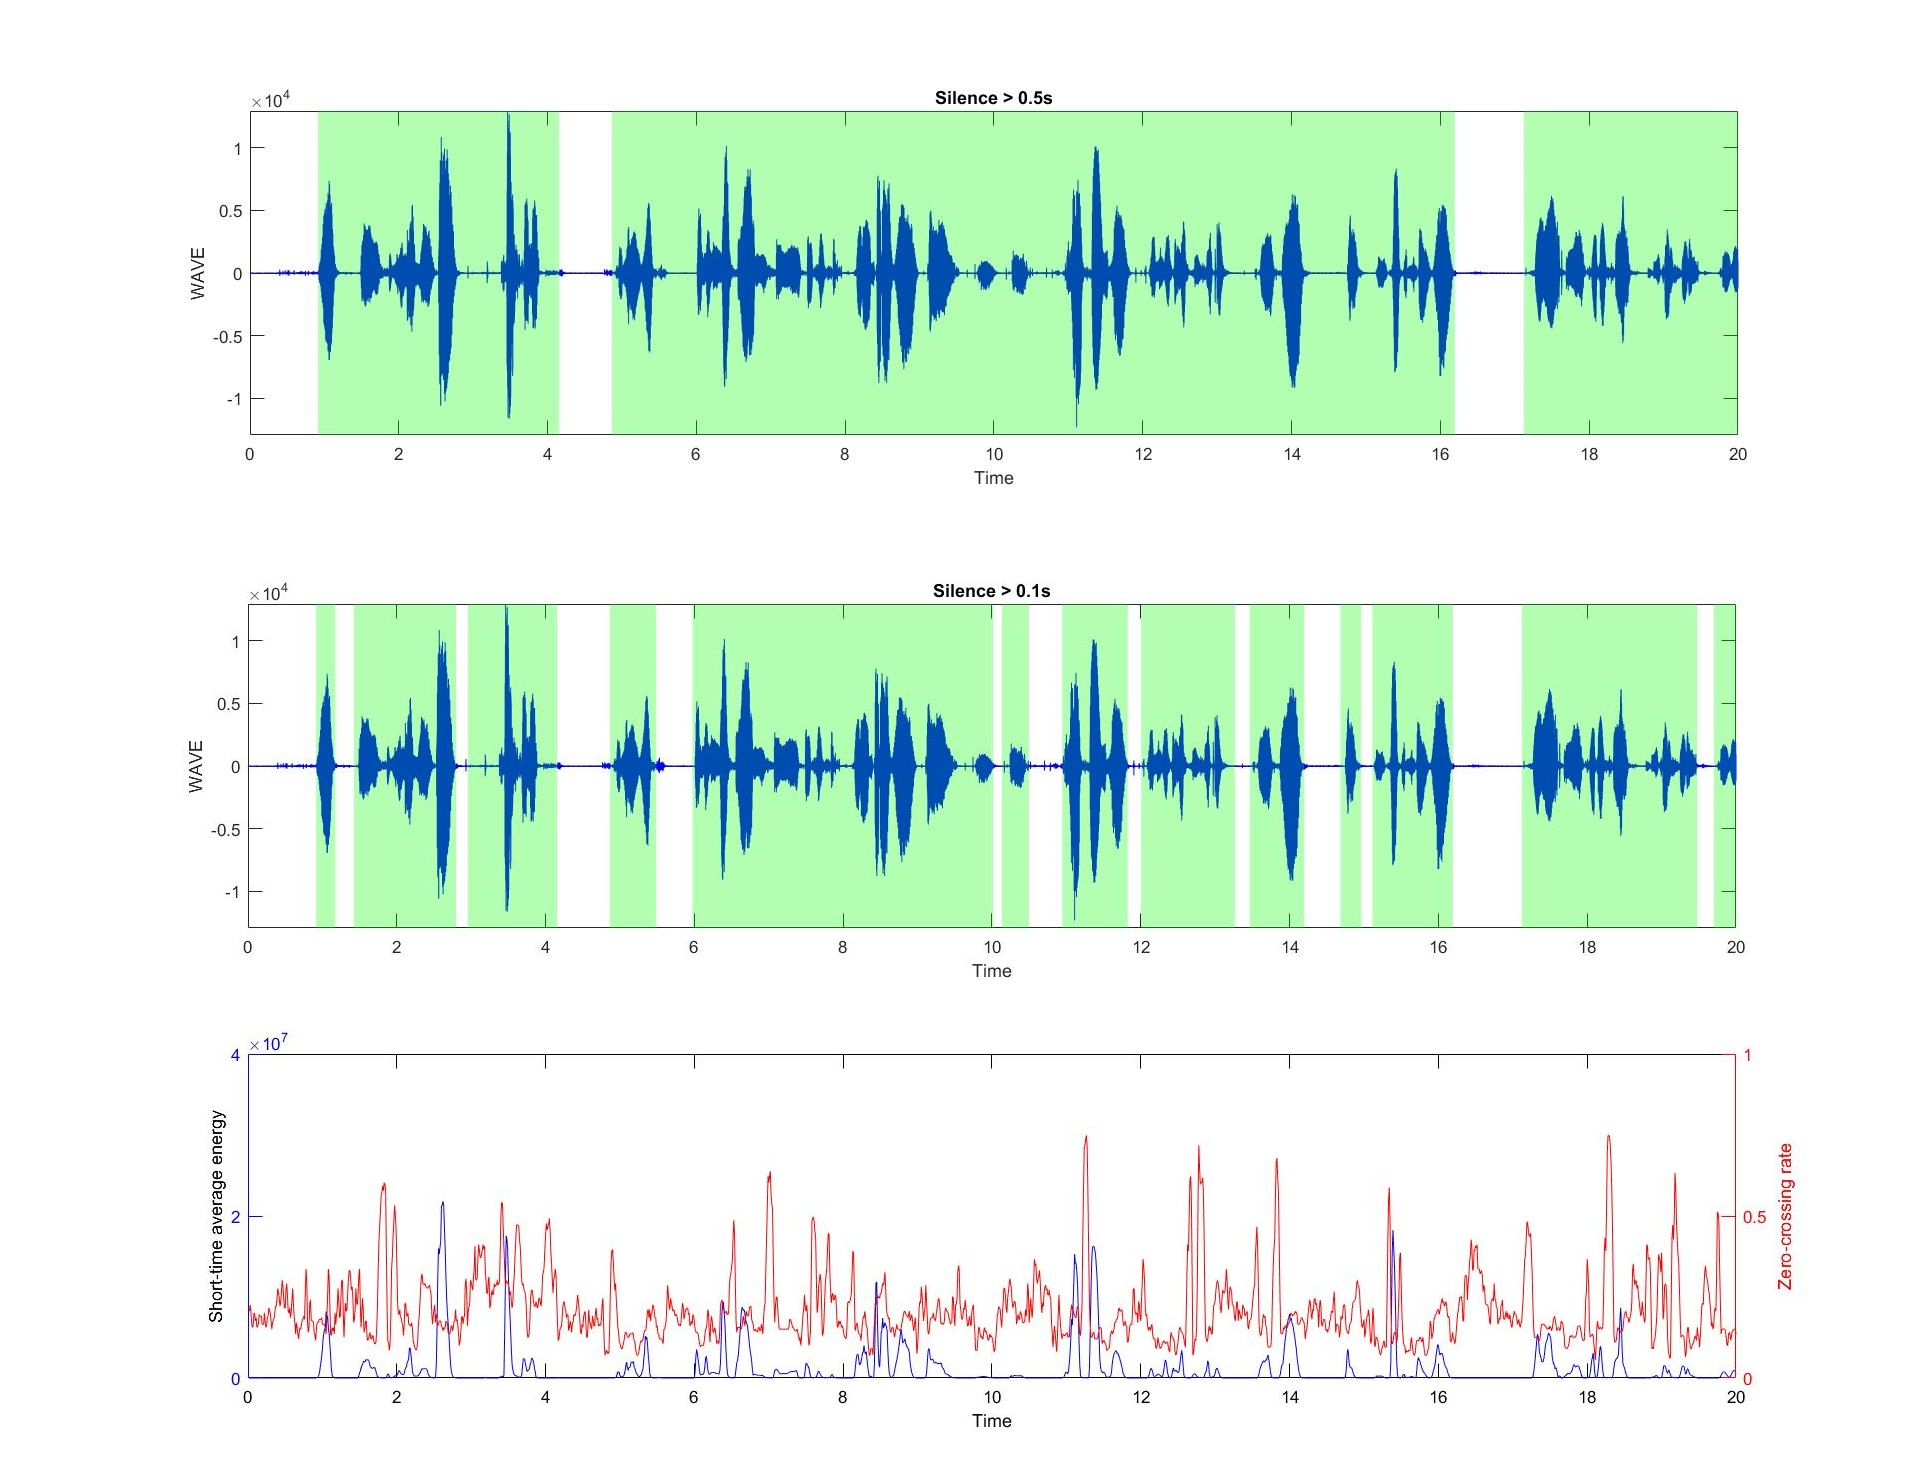
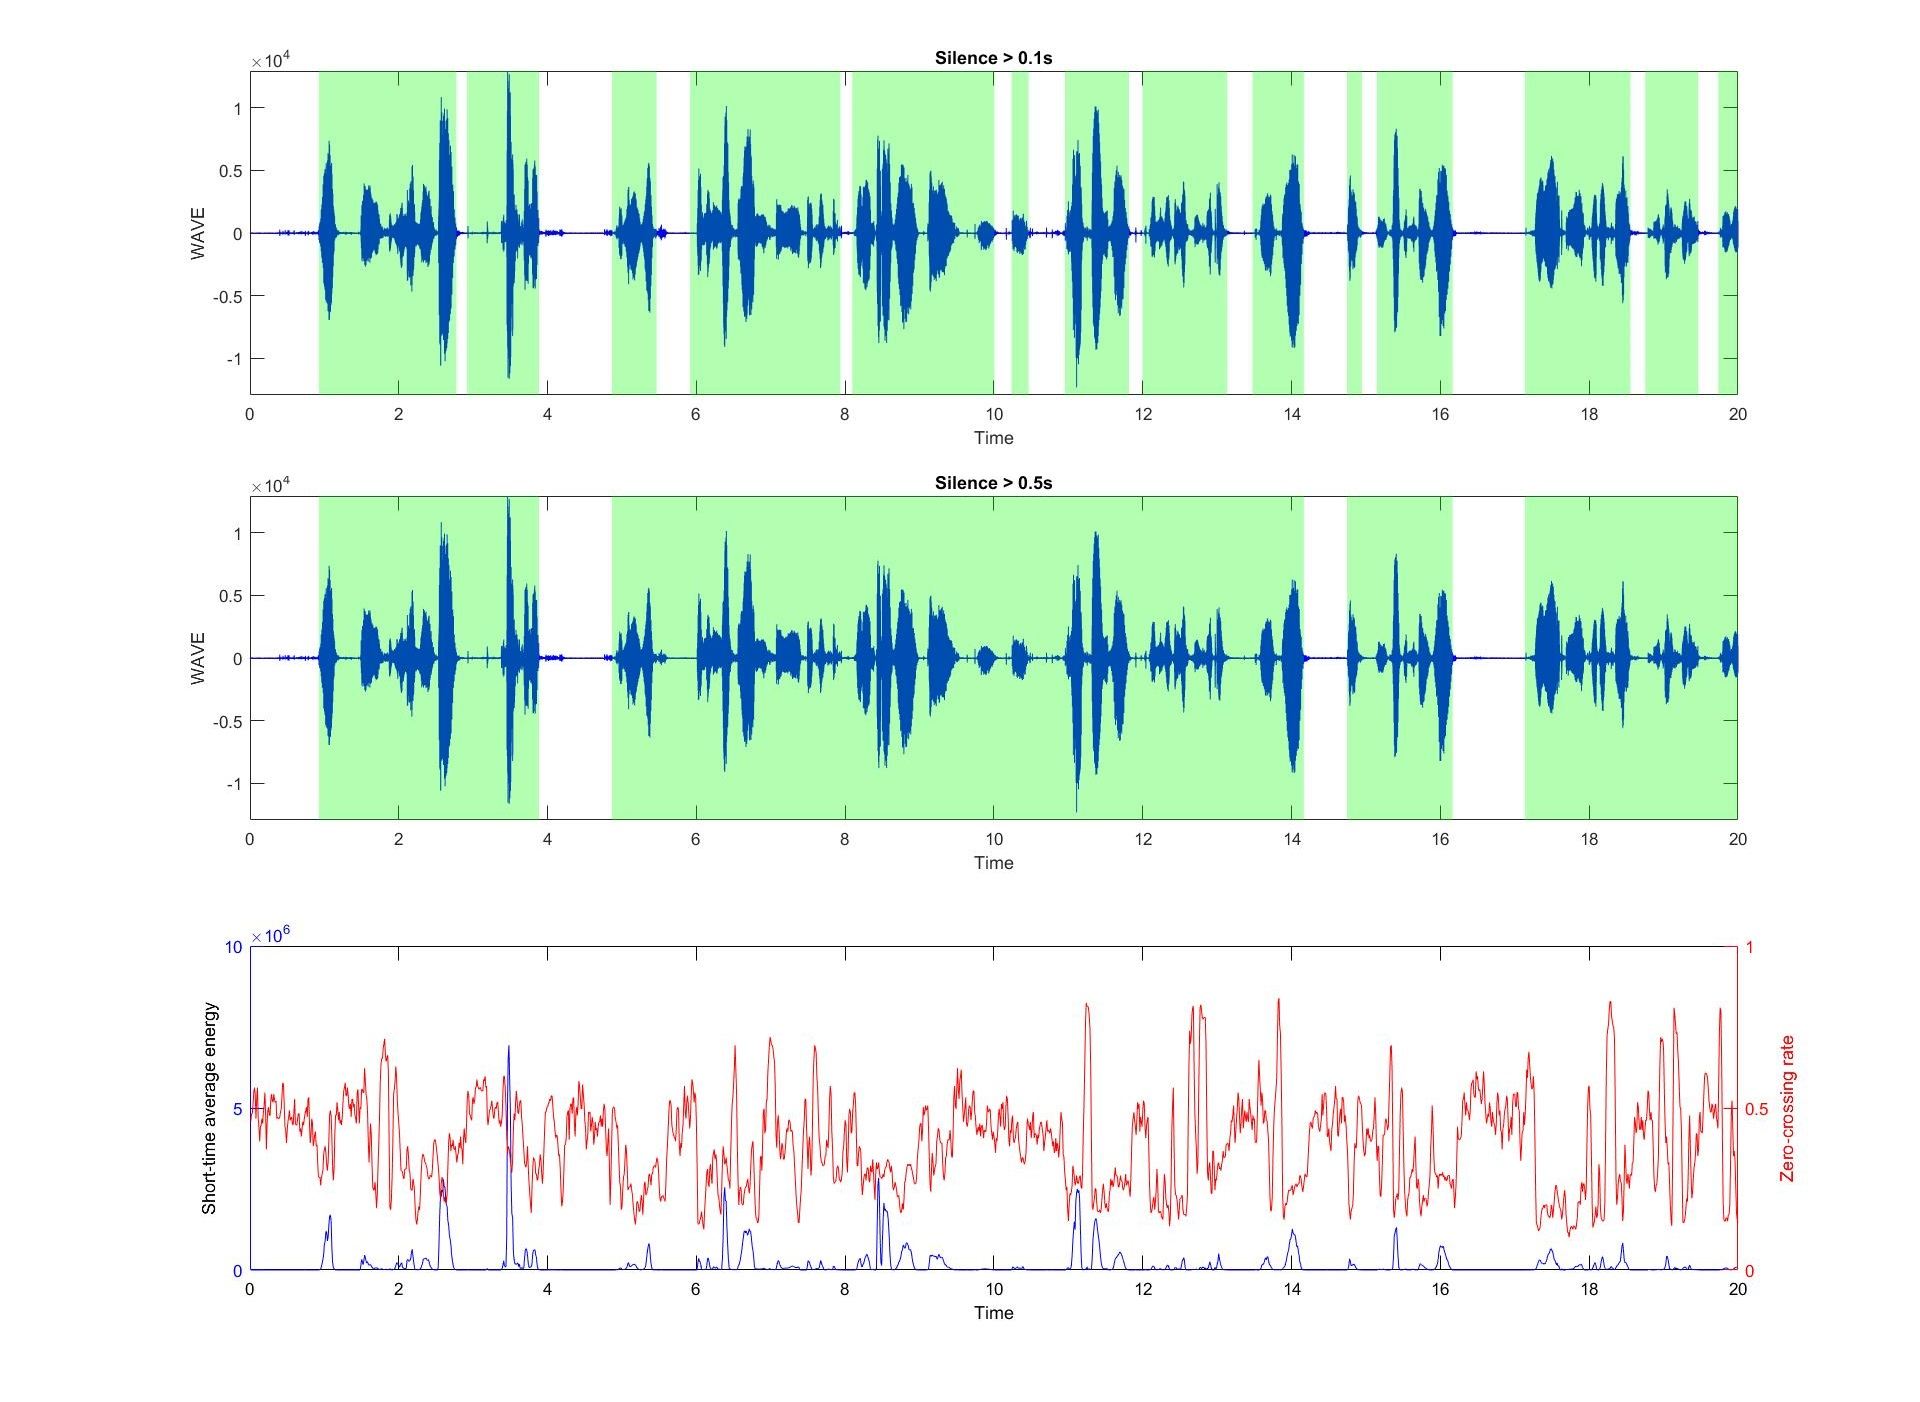
add preemphasis

diff --git a/main.c b/main.c
@@ -15,8 +15,8 @@ typedef struct {
 
 double frameSizeInTime = 0.025; 
 double frameShiftSizeInTime = 0.010;
-double MH = (double)1e5, ML = (double)1e4, Zs = 0.06;
-double gapLeast = 0.5;
+double MH = (double)1e4, ML = (double)2e3, Zs = 0.15;
+double gapLeast = 0.1;
 double genderDectectionWindow = 0.2;
 
 
@@ -39,7 +39,7 @@ int main(int argc, char** argv) {
 	int frameSize = (int)(frameSizeInTime*(double)w.WAVEParams.sampleRate); int frameShiftSize = (int)(frameShiftSizeInTime*(double)w.WAVEParams.sampleRate);
 	if (w.WAVEParams.numChannels > 1) { printf("Only use one channel\n"); }
 	printf("Frame length : %f s\nFrame shift length : %f s \n", frameSizeInTime, frameShiftSizeInTime);
-	Matrix frameStackOfSignal = frameRawSignal(w.DATA.data[1], frameSize, frameShiftSize);
+	Matrix frameStackOfSignal = frameRawSignal(w.DATA.data[1], frameSize, frameShiftSize,0.97,1);
 	int numFrames = NumRows(frameStackOfSignal);
 
 	//Calculate zero-crossing rate
@@ -66,29 +66,33 @@ int main(int argc, char** argv) {
 		VZs[i] = zeroCrossingRateForFrames[i] > 3.0*Zs ? 1 : 0;
 	}
 
-	//extend speechInd from MH to ML
 	int pos = 0;
 	CopyIntVec(VMH, speechInd);
-	for (int i = 2; i <= numFrames-1; i++) {
-		if (speechInd[i] == 0 && speechInd[i + 1] == 1) {
-			pos = i;
-			while (pos>=1&&pos<=numFrames&&VML[pos] == 1) { speechInd[pos] = 1; pos--; }
+	for (int epoch = 1; epoch <= 2; epoch++) {
+		//extend speechInd from MH to ML
+		pos = 0;
+		
+		for (int i = 2; i <= numFrames - 1; i++) {
+			if (speechInd[i] == 0 && speechInd[i + 1] == 1) {
+				pos = i;
+				while (pos >= 1 && pos <= numFrames&&VML[pos] == 1) { speechInd[pos] = 1; pos--; }
+			}
+			if (speechInd[i - 1] == 1 && speechInd[i] == 0) {
+				pos = i;
+				while (pos >= 1 && pos <= numFrames&&VML[pos] == 1) { speechInd[pos] = 1; pos++; }
+			}
 		}
-		if (speechInd[i-1] == 1 && speechInd[i] == 0) {
-			pos = i;
-			while (pos >= 1 && pos <= numFrames&&VML[pos] == 1) { speechInd[pos] = 1; pos++; }
-		}
-	}
 
-	//extend speechInd to Zs
-	for (int i = 2; i <= numFrames - 1; i++) {
-		if (speechInd[i] == 0 && speechInd[i + 1] == 1) {//01
-			pos = i;
-			while (pos >= 1 && pos <= numFrames&&VZs[pos] == 1) { speechInd[pos] = 1; pos--; }
-		}
-		if (speechInd[i - 1] == 1 && speechInd[i] == 0) {//10
-			pos = i;
-			while (pos >= 1 && pos <= numFrames&&VZs[pos] == 1) { speechInd[pos] = 1; pos++; }
+		//extend speechInd to Zs
+		for (int i = 2; i <= numFrames - 1; i++) {
+			if (speechInd[i] == 0 && speechInd[i + 1] == 1) {//01
+				pos = i;
+				while (pos >= 1 && pos <= numFrames&&VZs[pos] == 1) { speechInd[pos] = 1; pos--; }
+			}
+			if (speechInd[i - 1] == 1 && speechInd[i] == 0) {//10
+				pos = i;
+				while (pos >= 1 && pos <= numFrames&&VZs[pos] == 1) { speechInd[pos] = 1; pos++; }
+			}
 		}
 	}
 
@@ -186,11 +190,11 @@ int main(int argc, char** argv) {
 	} while (head);
 	head = tail = tempP = NULL;
 
-
-	int frameSize2 = (int)(genderDectectionWindow*(double)w.WAVEParams.sampleRate); int frameShiftSize2 = (int)(genderDectectionWindow/2*(double)w.WAVEParams.sampleRate);
+	/*
+	int frameSize2 = (int)(genderDectectionWindow*(double)w.WAVEParams.sampleRate); int frameShiftSize2 = (int)(genderDectectionWindow / 2 * (double)w.WAVEParams.sampleRate);
 	Matrix frameStackOfSignal2 = frameRawSignal(w.DATA.data[1], frameSize2, frameShiftSize2);
 	int numFrames2 = NumRows(frameStackOfSignal2);
-
+	*/
 	
 
 	/*
